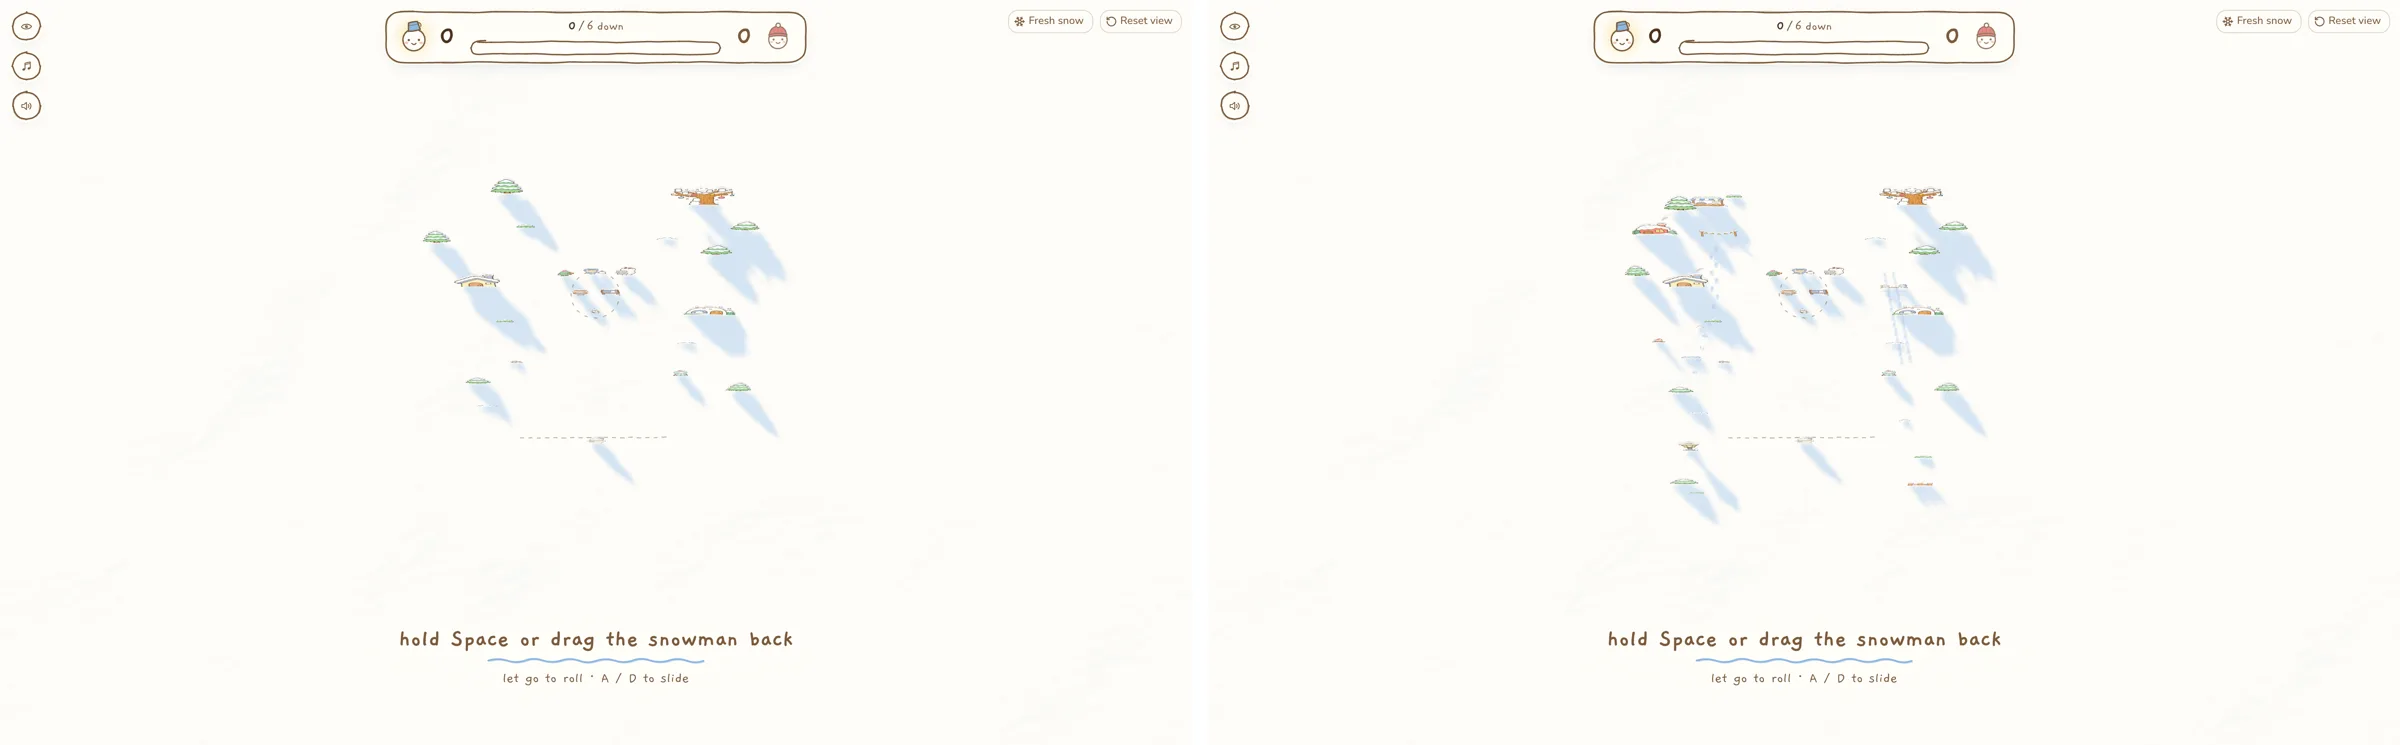
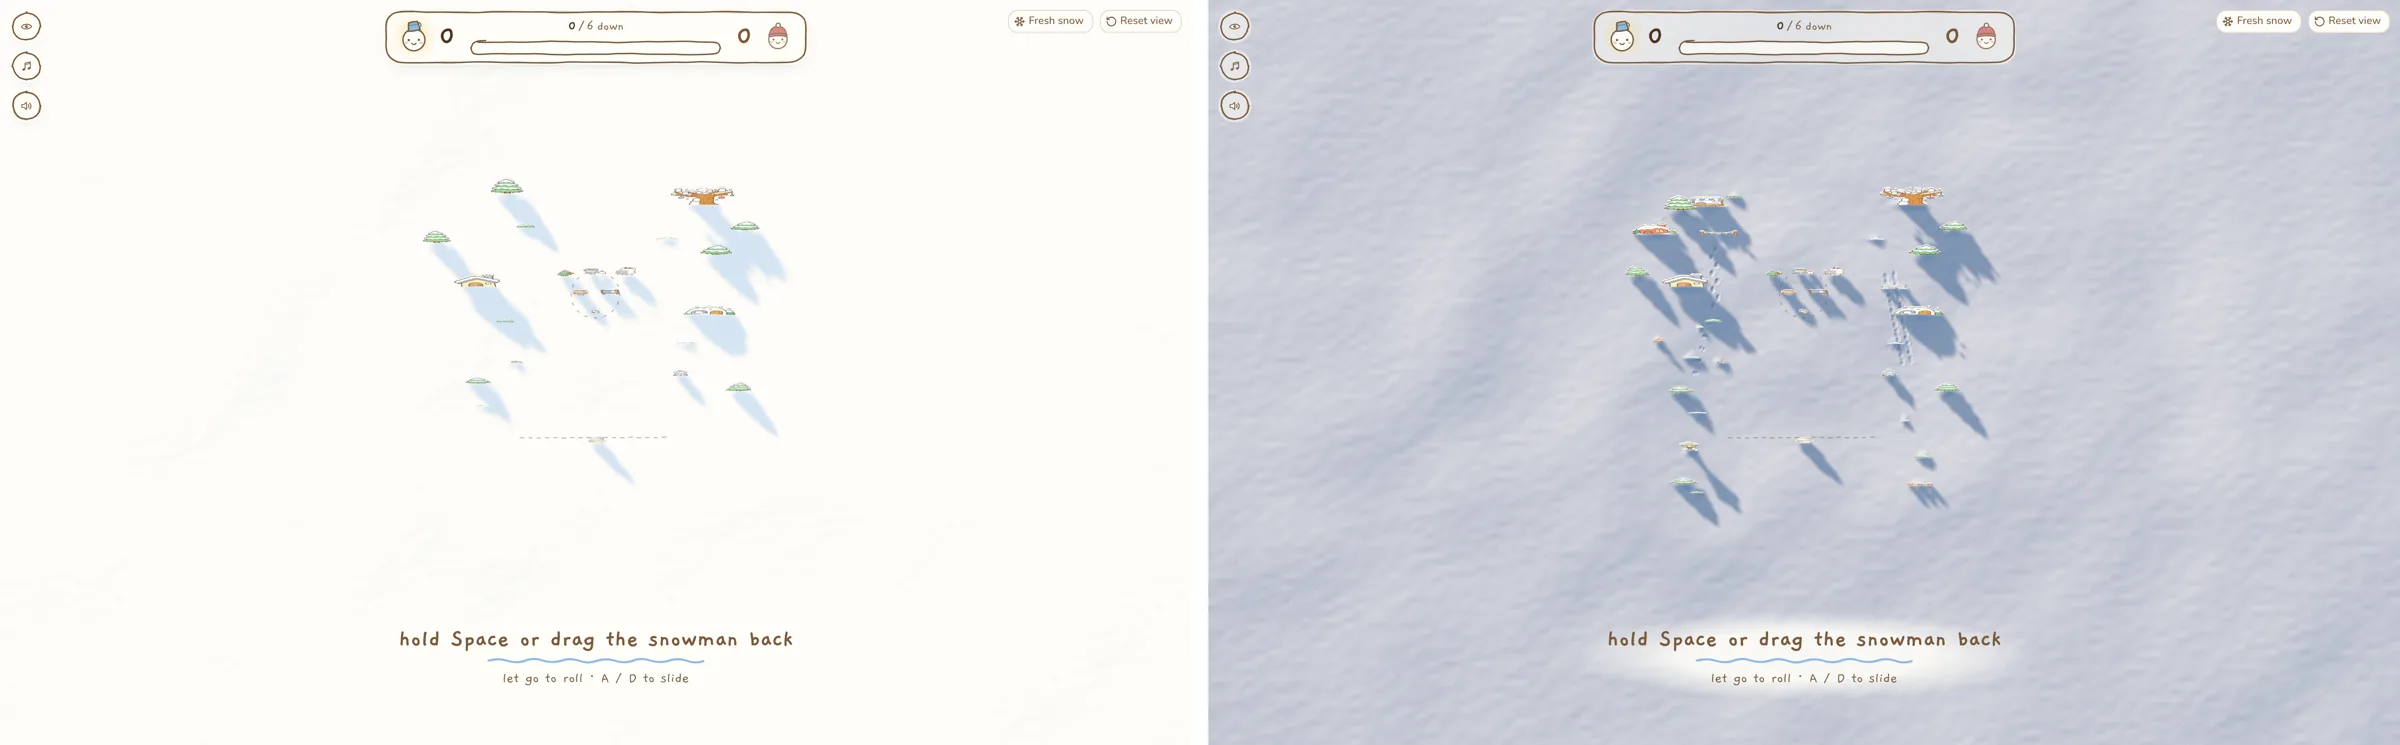
Snow is real, lit snow again; cut-outs unchanged (#38)
Undoes the flat paper-tone pass of #36 on the snow only: SnowGround and SnowSpray back to
62b29ec, the snow's colours, sun, sky fill, sparkles and snowfall restored. Shade comes from a
clear pale sky-blue fill instead of the old blue-violet; cast shadows take 0.8 of the sun via
content.shade.strength (the sun's shadow intensity). Cut-outs are drawn in their own unlit paper
shaders and are not affected. Far hills haze toward --snow-shadow so they sit back on the lit snow.

diff --git a/src/features/snow-scene/content.ts b/src/features/snow-scene/content.ts
@@ -4,21 +4,8 @@
 
 // Design tokens from src/app/globals.css (same names there, with dashes).
 const tokens = {
-  paper: "#fffdf8", // --paper
   snowShadow: "#cfe1f2", // --snow-shadow
-  skyBlue: "#8db7e2", // --sky-blue
 } as const;
-
-/** An even blend of two token colours (share 0 = a, 1 = b), as a hex colour. */
-function mixTokens(a: string, b: string, share: number): string {
-  const channel = (hex: string, i: number) => parseInt(hex.slice(1 + i * 2, 3 + i * 2), 16);
-  const out = [0, 1, 2].map((i) =>
-    Math.round(channel(a, i) * (1 - share) + channel(b, i) * share)
-      .toString(16)
-      .padStart(2, "0"),
-  );
-  return `#${out.join("")}`;
-}
 
 export const content = {
   title: "Plop!",
@@ -115,9 +102,6 @@ export const content = {
     rimSoften: 0.35,
     // Depth at which pressed snow reaches its full darker, bluer tint.
     fullTintDepth: 0.6,
-    // How quickly a shallow press already shows blue (1 = in step with depth,
-    // below 1 = shallow grooves tint sooner, so they read on paper-white snow).
-    tintCurve: 0.55,
     // Within this height of hard ground, the hard-ground colour shows through.
     hardGroundBlend: 0.05,
     // Ploughing: how much more snow piles ahead of a moving ball than beside
@@ -172,49 +156,40 @@ export const content = {
     clumpSettle: 0.7,
   },
 
-  // Every colour is a design token from src/app/globals.css, copied here with
-  // its name (or an even mix of two tokens), so the snow is painted in the same
-  // paper colours as Rachel's cut-outs. Change the token there and here together.
+  // The snow's own look: lit, real snow (restored from before the paper-tone
+  // pass, #36, at Rachel's request). The cut-outs are not affected: they are
+  // drawn in their own unlit paper shaders with token colours and skip tone
+  // mapping, so they look exactly the same on this snow.
   colors: {
-    // Untouched snow: exactly the paper the cut-outs are drawn on.
-    snow: tokens.paper,
-    // Pressed snow turns pale blue, deeper presses bluer (darker the deeper),
-    // and right at the bottom the hard ground shows through.
-    snowPressed: mixTokens(tokens.snowShadow, tokens.skyBlue, 0.35),
-    hardGround: tokens.skyBlue,
-    // The lights. Only the bowling card and ball are lit by their colour; the
-    // snow takes only "how much light" from them and paints the rest in tokens.
-    sun: tokens.paper,
-    skyFill: tokens.snowShadow,
-    groundBounce: tokens.paper,
-    sparkle: tokens.paper,
+    // Not pure white: leaves headroom for sun highlights and sparkles.
+    snow: "#dfe7f2",
+    snowPressed: "#8fabd6",
+    // Shows where the snow is pressed right down to the ground.
+    hardGround: "#6f86ad",
+    sun: "#ffe2bd",
+    // The sky's fill light: it is what colours the shade and the shadows.
+    // A clear pale sky blue (not the old blue-violet), so shade reads cool
+    // and deep without a lilac cast (#38).
+    skyFill: "#a9cdf5",
+    groundBounce: "#dfe6f5",
+    sparkle: "#fff6e6",
     // The soft sky the far snow melts into: top and bottom of the screen.
-    // Warm paper with the faintest pale-blue wash at the top.
-    fogTop: mixTokens(tokens.paper, tokens.snowShadow, 0.35),
-    fogBottom: tokens.paper,
-    snowflake: tokens.paper,
-    snowDust: tokens.paper,
+    fogTop: "#cfdcf0",
+    fogBottom: "#e3eaf5",
+    snowflake: "#ffffff",
+    snowDust: "#ffffff",
     // TEMPORARY: stand-in blocks shown with ?guides in the address.
     tempGuide: "#e58a6b",
   },
 
-  // How shade and shadows are painted on the snow: a flat pale-blue wash, like
-  // a watercolour shadow on paper, instead of a darker render of lit snow.
-  // Cast shadows and slopes facing away from the sun get the same wash.
-  // `@/features/snow-scene` exports these as `snowShadow`, so a feature that
-  // paints its own shadows can match them.
+  // Cast shadows on the snow. `strength` is how much of the sun a shadow takes
+  // away (1 = all of it, as before #36; lower = paler, the sky fill shows
+  // through). A little under 1 so the cut-outs' shadows read soft next to
+  // paper. `color` is the design token for features that paint their own
+  // shadows (exported as `snowShadow`). Set here, nowhere else.
   shade: {
-    // The wash colour at full strength.
     color: tokens.snowShadow,
-    // How much of that colour shows in full shade (1 = exactly the colour,
-    // 0 = no shade at all, the snow stays flat paper).
-    strength: 0.9,
-    // Light (as a share of flat sunlit snow) above which the snow stays plain
-    // paper. A little under 1 so tiny bumps on lit snow never tint it.
-    litFrom: 0.93,
-    // Shapes the wash between lit and full shade: 1 = even, above 1 = a
-    // softer, paler start so gentle slopes stay paper-like.
-    curve: 1.2,
+    strength: 0.8,
   },
 
   light: {
@@ -224,14 +199,10 @@ export const content = {
     sunAzimuth: 128,
     sunStrength: 5,
     skyStrength: 1.7,
-    // Tone mapping (Neutral) and exposure apply to lit things such as the
-    // bowling card and ball only. The snow is painted in token colours and
-    // skips tone mapping, because tone mapping greys paper white (1.0 comes
-    // out about 0.88), the same as the cut-outs, which skip it too.
     exposure: 1.0,
     // Shadows: sharpness and softness.
     shadowMapSize: 2048,
-    shadowSoftness: 8,
+    shadowSoftness: 5,
     shadowArea: 16,
     shadowBias: -0.0004,
     shadowNormalBias: 0.05,
@@ -246,9 +217,9 @@ export const content = {
     // Sparkles: size of one glint, how many light up, how fast they flicker
     // as the view shifts, and how bright they get.
     sparkleCell: 0.02,
-    sparkleAmount: 0.012,
+    sparkleAmount: 0.022,
     sparkleSensitivity: 900,
-    sparkleStrength: 0.9,
+    sparkleStrength: 2.2,
   },
 
   camera: {
@@ -353,7 +324,7 @@ export const content = {
     fallSpeed: 0.55,
     drift: 0.25,
     size: 0.05,
-    opacity: 0.7,
+    opacity: 0.85,
   },
 
   // Fresh snowfall: the snow falls harder for a moment and every dent

diff --git a/src/features/snow-scene/SnowGround.tsx b/src/features/snow-scene/SnowGround.tsx
@@ -195,8 +195,6 @@ function buildMaterial(plain: boolean, tiles: DataTexture, tilesAcross: number):
     roughness: s.roughness,
     metalness: 0,
     dithering: true,
-    // Painted in token colours below; tone mapping would grey the paper white.
-    toneMapped: false,
   });
   if (plain) material.defines = { SNOW_PLAIN: "" };
   material.customProgramCacheKey = () => (plain ? "snow-plain" : "snow-tile");
@@ -234,18 +232,6 @@ function buildMaterial(plain: boolean, tiles: DataTexture, tilesAcross: number):
         value: new Vector4(content.haze.start, content.haze.end, 0, content.ground.centerZ),
       },
       uSparkleColor: { value: new Color(content.colors.sparkle) },
-      uShadeColor: { value: new Color(content.shade.color) },
-      // the wash is the shade colour's share of paper, so it tints any snow colour alike
-      uPaper: { value: new Color(content.colors.snow) },
-      // where plain paper ends, strength of the wash, its curve; how soon pressed snow tints
-      uShade: {
-        value: new Vector4(
-          content.shade.litFrom,
-          content.shade.strength,
-          content.shade.curve,
-          content.press.tintCurve,
-        ),
-      },
       // scale, strength, tint
       uGrain: { value: new Vector4(s.grainScale, s.grainStrength, s.grainTint, 0) },
       // glint size, share lit, flicker speed, brightness
@@ -281,10 +267,6 @@ function buildMaterial(plain: boolean, tiles: DataTexture, tilesAcross: number):
         uniform vec3 uSnowPressed;
         uniform vec3 uHardGround;
         uniform vec3 uSparkleColor;
-        uniform vec3 uShadeColor;
-        uniform vec3 uPaper;
-        uniform vec4 uShade;
-        float snowLum(vec3 c) { return dot(c, vec3(0.2126, 0.7152, 0.0722)); }
         uniform vec3 uFogTop;
         uniform vec3 uFogBottom;
         uniform vec2 uResolution;
@@ -329,9 +311,7 @@ function buildMaterial(plain: boolean, tiles: DataTexture, tilesAcross: number):
         float grainValue = snowNoise(grainP) * 0.65 + snowNoise(grainP * 2.3 + 7.1) * 0.35;
         // Pressed snow: darker and bluer the deeper it goes; at the very
         // bottom the hard ground shows through.
-        // Shallow presses tint sooner (uShade.w), but the very edge fades in
-        // softly, so the grid never shows as a stepped line round a groove.
-        float packed = pow(clamp(vPressed, 0.0, 1.0), uShade.w) * smoothstep(0.0, 0.12, vPressed);
+        float packed = min(vPressed, 1.0);
         float hardGround = clamp(vPressed - 1.0, 0.0, 1.0);
         diffuseColor.rgb = mix(diffuseColor.rgb, uSnowPressed, packed);
         diffuseColor.rgb = mix(diffuseColor.rgb, uHardGround, hardGround);
@@ -383,30 +363,6 @@ function buildMaterial(plain: boolean, tiles: DataTexture, tilesAcross: number):
       .replace(
         "#include <opaque_fragment>",
         /* glsl */ `
-        // Paint, do not render: the lights only say how much light falls here
-        // (1 = flat snow in full sun). The snow is then painted in its own
-        // colour (paper, or the pale blue of pressed snow), with a flat pale
-        // wash of the shade colour where light is missing, like a watercolour
-        // shadow on paper. Cast shadows and slopes turned from the sun get the
-        // same wash; deeper pressed snow starts bluer, so it still reads darker.
-        float snowSunFlat = 0.0;
-        float snowSkyFlat = 0.0;
-        vec3 snowUp = normalize((viewMatrix * vec4(0.0, 1.0, 0.0, 0.0)).xyz);
-        #if NUM_DIR_LIGHTS > 0
-          snowSunFlat = max(dot(snowUp, directionalLights[0].direction), 0.0) * snowLum(directionalLights[0].color);
-        #endif
-        #if NUM_HEMI_LIGHTS > 0
-          snowSkyFlat = snowLum(hemisphereLights[0].skyColor);
-        #endif
-        float snowLitFlat = max(snowSunFlat + snowSkyFlat, 1e-4);
-        float snowLight = snowLum(reflectedLight.directDiffuse + reflectedLight.indirectDiffuse) * PI
-          / max(snowLum(diffuseColor.rgb), 1e-4) / snowLitFlat;
-        // Flat snow in a cast shadow (sky light only) is full shade.
-        float snowShadeFloor = snowSkyFlat / snowLitFlat;
-        float snowShade = clamp((uShade.x - snowLight) / max(uShade.x - snowShadeFloor, 1e-3), 0.0, 1.0);
-        snowShade = pow(snowShade, uShade.z) * uShade.y;
-        vec3 snowWash = mix(vec3(1.0), uShadeColor / max(uPaper, vec3(1e-3)), snowShade);
-        outgoingLight = diffuseColor.rgb * snowWash;
         // Sparkles: a few tiny crystals, each facing its own way, that flash
         // when the view lines up with them. Only where the sun reaches.
         vec2 sparkleP = vSnowPos.xz / uSparkle.x;

diff --git a/src/features/scenery/content.ts b/src/features/scenery/content.ts
@@ -614,8 +614,8 @@ export const backdrop = {
   /** Far hills band: height on the wall (width follows the drawing), how far its foot sinks into the snow. */
   hillsHeight: 0.95,
   hillsSink: 0.12,
-  /** Far things fade a little toward `--paper`, so they sit behind the village. */
-  haze: 0.12,
+  /** The far hills fade this much toward `--snow-shadow` (distance haze), so they sit behind the village on the lit snow. */
+  haze: 0.3,
   /** Fade the whole backdrop out between these camera heights (degrees above the snow). */
   fadeFrom: 38,
   fadeTo: 50,

diff --git a/src/features/scenery/three/Backdrop.tsx b/src/features/scenery/three/Backdrop.tsx
@@ -180,7 +180,7 @@ export function Backdrop({ center }: Props) {
     [hillsRadius, b.hillsHeight, arc],
   );
   const hillsMaterial = useMemo(
-    () => artPlaneMaterial(hillsTex, new Color(paper.paper), b.haze, repeats, true),
+    () => artPlaneMaterial(hillsTex, new Color(paper.shade), b.haze, repeats, true),
     [hillsTex, repeats, paper, b.haze],
   );
 

diff --git a/src/features/snow-scene/SceneLook.tsx b/src/features/snow-scene/SceneLook.tsx
@@ -63,6 +63,7 @@ export function Lights() {
         shadow-radius={l.shadowSoftness}
         shadow-bias={l.shadowBias}
         shadow-normalBias={l.shadowNormalBias}
+        shadow-intensity={content.shade.strength}
       >
         <orthographicCamera
           attach="shadow-camera"

diff --git a/src/features/snow-scene/SnowSpray.tsx b/src/features/snow-scene/SnowSpray.tsx
@@ -106,8 +106,6 @@ class SpraySim {
         emissive: content.colors.snow,
         emissiveIntensity: s.clumpGlow,
         roughness: 0.9,
-        // Paper white like the snow they came from, not greyed by tone mapping.
-        toneMapped: false,
       }),
       s.clumpCount,
     );

diff --git a/src/features/snow-scene/README.md b/src/features/snow-scene/README.md
@@ -31,11 +31,11 @@ Inside `<SnowScene>`, these are available:
 - `useSnowCameraView({ lookAt, pathAt, turn?, distance? })`, or the same as a component `<SnowCameraView … />`, sets the camera's **default view** from inside `<SnowScene>`: the point it looks at (`lookAt`, scene units), where on the camera path it starts (`pathAt`, 0 = low end, 1 = high end; the play view is `cameraPath.playAt` = 0.42), an optional starting turn in degrees (`turn`, clamped to the turn limit) and an optional `distance` (times what the path gives, 0.5 to 2; in full up to the play view, blending back to 1 at the high end so the highest view and the far plane are unchanged). The camera jumps there at once, "Reset view" glides back to it, and turning, the path and every limit work around it as before. When the component goes away the scene's own play view comes back. Without it nothing changes. Example, the paper-bowling throwing view: `<SnowCameraView {...throwingView(FEEL.lane)} />` (from `@/features/scenery`), which looks at a point 45% of the way from the line to the pin spot from about 24 degrees up, 1.6 times further back than the path gives there.
 - `claimSnowPointer(pointerId)`: call it in your pointer-down handler when a finger starts dragging one of your things (a character, for the slingshot). A claimed finger never turns or zooms the view. It is released by itself when the finger lifts. Fingers nobody claimed are "on empty snow": one turns the view, two pinch to zoom.
 
-- `snowShadow` (a plain value, not a hook): `{ color, strength }`, how the snow paints shade and shadows. A feature that paints its own shadows (a `ShadowMaterial`, say) uses these so they match. Set in `content.shade`, nowhere else.
+- `snowShadow` (a plain value, not a hook): `{ color, strength }`: the `--snow-shadow` token and how much of the sun a cast shadow on the snow takes away. A feature that paints its own shadows (a `ShadowMaterial`, say) uses these so they match. Set in `content.shade`, nowhere else.
 
-The snow is painted, not rendered: it is exactly `--paper` where the sun reaches, and where light is missing (a cast shadow or a slope turned from the sun) it gets one flat wash of `--snow-shadow`, like a watercolour shadow on paper. The lights only decide how much wash goes where. The snow skips tone mapping (tone mapping turns paper white into light grey), as the cut-outs do. Every colour in `content.ts` is a token from `globals.css`, copied with its name.
+The snow is lit, real snow: a low warm sun and a pale sky-blue fill shade its slopes, drifts, groove and crater walls; it has fine grain and sparkles that glint as the view moves, and it is tone mapped like any lit thing. (The flat "painted paper" pass of #36 was undone at Rachel's request in #38.) The cut-outs are not affected: they are drawn in their own unlit paper shaders with token colours and no tone mapping. Cast shadows take `content.shade.strength` of the sun (0.8), so the cut-outs' shadows read soft.
 
-The deeper the snow is pressed, the darker and bluer it gets (pale blue to `--sky-blue` at hard ground) and the taller its rim. Dents stay. Dust and small clumps fly by themselves whenever snow is pressed or hit; nothing to call.
+The deeper the snow is pressed, the darker and bluer it gets and the taller its rim. Dents stay. Dust and small clumps fly by themselves whenever snow is pressed or hit; nothing to call.
 
 The camera is part of the scene. Its whole state is two numbers: a position on one path (low and close looking across the snow, through the play view, up to high, far and steep where everything looks small) and a turn left/right (up to 60 degrees, never behind). Every input moves those two, so they never fight:
 

diff --git a/src/features/scenery/README.md b/src/features/scenery/README.md
@@ -150,8 +150,8 @@ Re-run `python3 scripts/trace_standees.py` whenever the slicer re-cuts the art.
   The stand-in paper mound of the test page is off here (`ThickStandee mound={false}`).
 - **Look:** the thick standee renderer from `three/` unchanged: art exactly as drawn, paper edge with an uneven ink
   line, the half-turn toward the camera around the throwing view's look-at point, gentle sway on the trees.
-  Shadows are the snow scene's real sun shadows, painted by the snow itself as a pale-blue `--snow-shadow` wash
-  (strength set once in the snow scene's `content.shade`, exported as `snowShadow`); the village no longer changes them.
+  Shadows are the snow scene's real sun shadows on its lit snow (strength set once in the snow scene's
+  `content.shade`, exported as `snowShadow`); the village never changes them.
 - **Clear lane and sight line:** `villageProblems(lane, cameraPosition?)` lists any prop in the roll lane (the slide
   width plus the drawn margin, from in front of the line to past the pins) or standing taller than the line of sight
   from the camera to the pins. In development the page logs the result once the camera has settled.
@@ -170,7 +170,7 @@ the snow used to run on, empty, behind the village. Now the scene is built in la
 - **Sky and far hills (`three/Backdrop.tsx`, `backdrop` in `content.ts`):** a curved paper wall stands just behind the
   village (radius 9.6 round the throwing view's look-at point, 220° of arc), `--paper` blending toward `--snow-shadow`
   higher up. Rachel's far panorama (`far-hills`, cut along the hill line) is repeated along its foot, a little hazed
-  toward `--paper`. The sun, three clouds and a flying bird (`sky-*`) are flat doodles on the wall; the clouds drift a
+  toward `--snow-shadow`. The sun, three clouds and a flying bird (`sky-*`) are flat doodles on the wall; the clouds drift a
   few degrees, the bird crosses every minute. The wall is opaque (drawn before the snow, so the snow behind it costs
   nothing) and thins out in a fine paper-grain pattern between 38° and 50° of camera height, so the high view is all
   snow as before. On a phone held upright it comes a little closer and the hills grow (`backdrop.portrait`) so they

diff --git a/docs/DECISIONS.md b/docs/DECISIONS.md
@@ -62,3 +62,4 @@ One line per decision: date, what, why.
 - 2026-11-25 · The thrower is the scenery thick standee of Rachel's snowmen (bucket = player one, red hat = two) with hand-drawn springy motion, and the snowball is drawn, not lit: `--paper` base, hatched `--snow-shadow` side fixed to a drawing light turned to the side so the shade shows from the throwing view, pencil marks that turn with the roll, an uneven `--ink` outline shell. No PBR material on either (#37).
 - 2026-11-25 · The home page is the game (`src/features/game/`): one ball per turn, turns alternate Bucket → Red Hat, one point per card down plus 3 for a full clear, the turn passes 0.25 s after the pins stand again, and no pull can start while pins settle. A ball left resting melts 1.1 s after the count so the reset never waits for it. Feel numbers: `docs/TUNING.md`.
 - 2026-11-25 · The throwing view never sees the horizon (its top edge looks 13° down), so sky and far hills are a curved paper backdrop standing just behind the village like the back of a paper theatre (`backdrop` in scenery `content.ts`), opaque so the snow behind it is not drawn, fading out above 38° so the high view stays all snow. Changing the throwing view to show a real horizon was rejected: it would flatten the lane the game is framed for (#38).
+- 2026-11-25 · The snow is real, lit snow again (the flat paper-tone pass of #36 is undone; Rachel: "make the snow's real feel like it was before"), while the cut-outs stay exactly as drawn (unlit paper shaders, token colours, no tone mapping). Shade comes from a clear pale sky-blue fill (`#a9cdf5`) instead of the old blue-violet, which kept the depth without the lilac cast; cast shadows take 0.8 of the sun (`content.shade.strength`, the sun's shadow intensity), never a Village override. A `look.realism` slider was considered and dropped: the restored look is the default and one more knob was not worth the complexity (#38).
